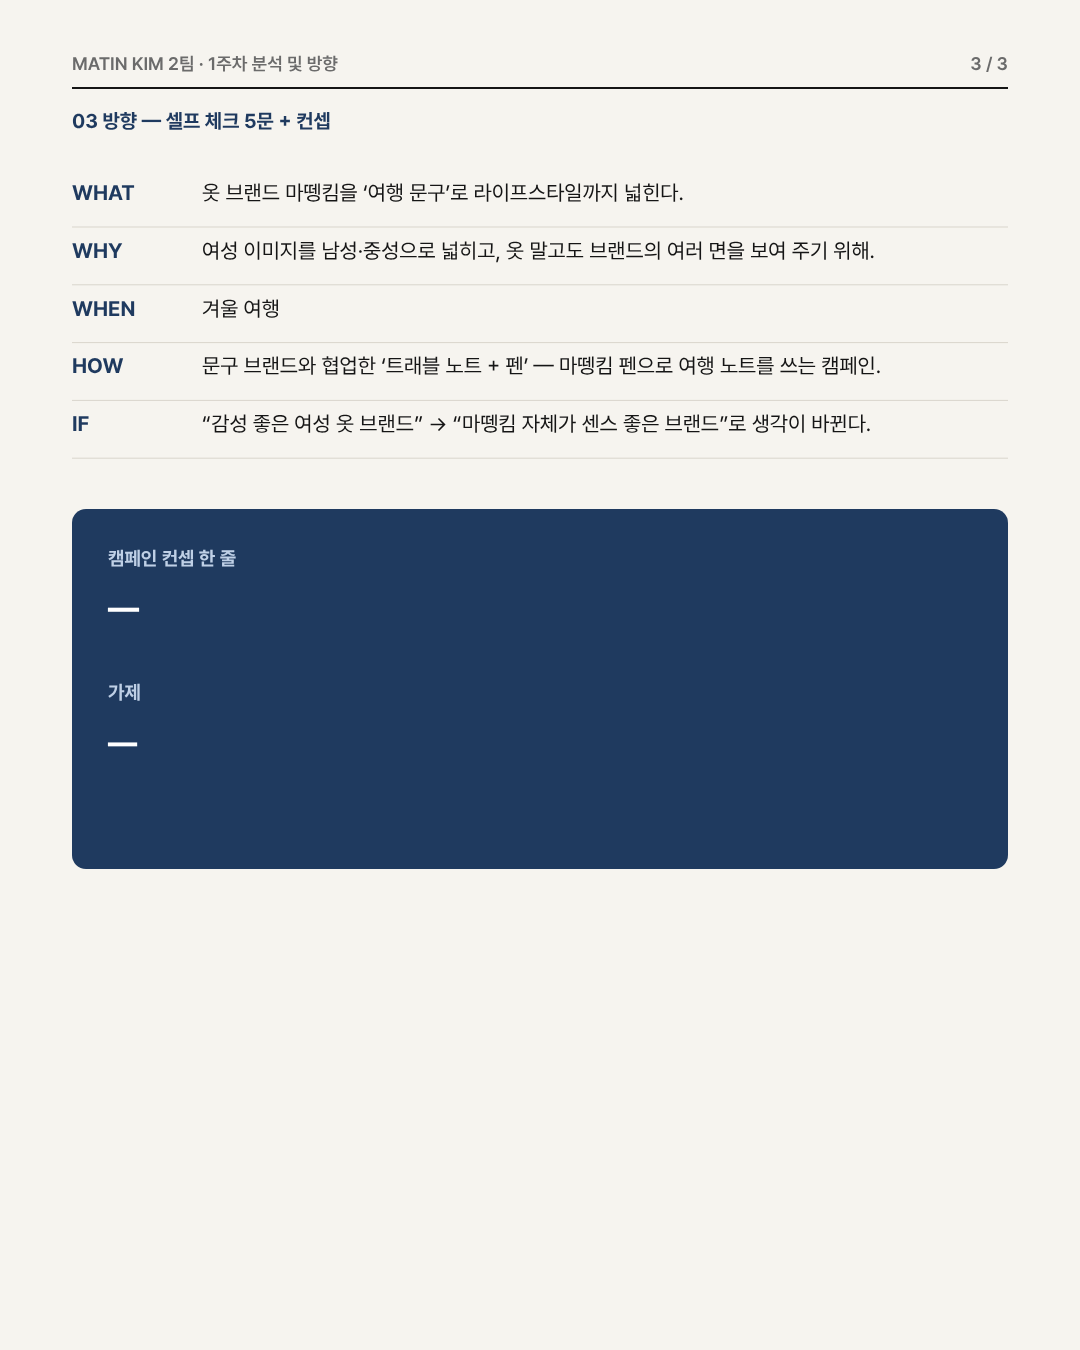
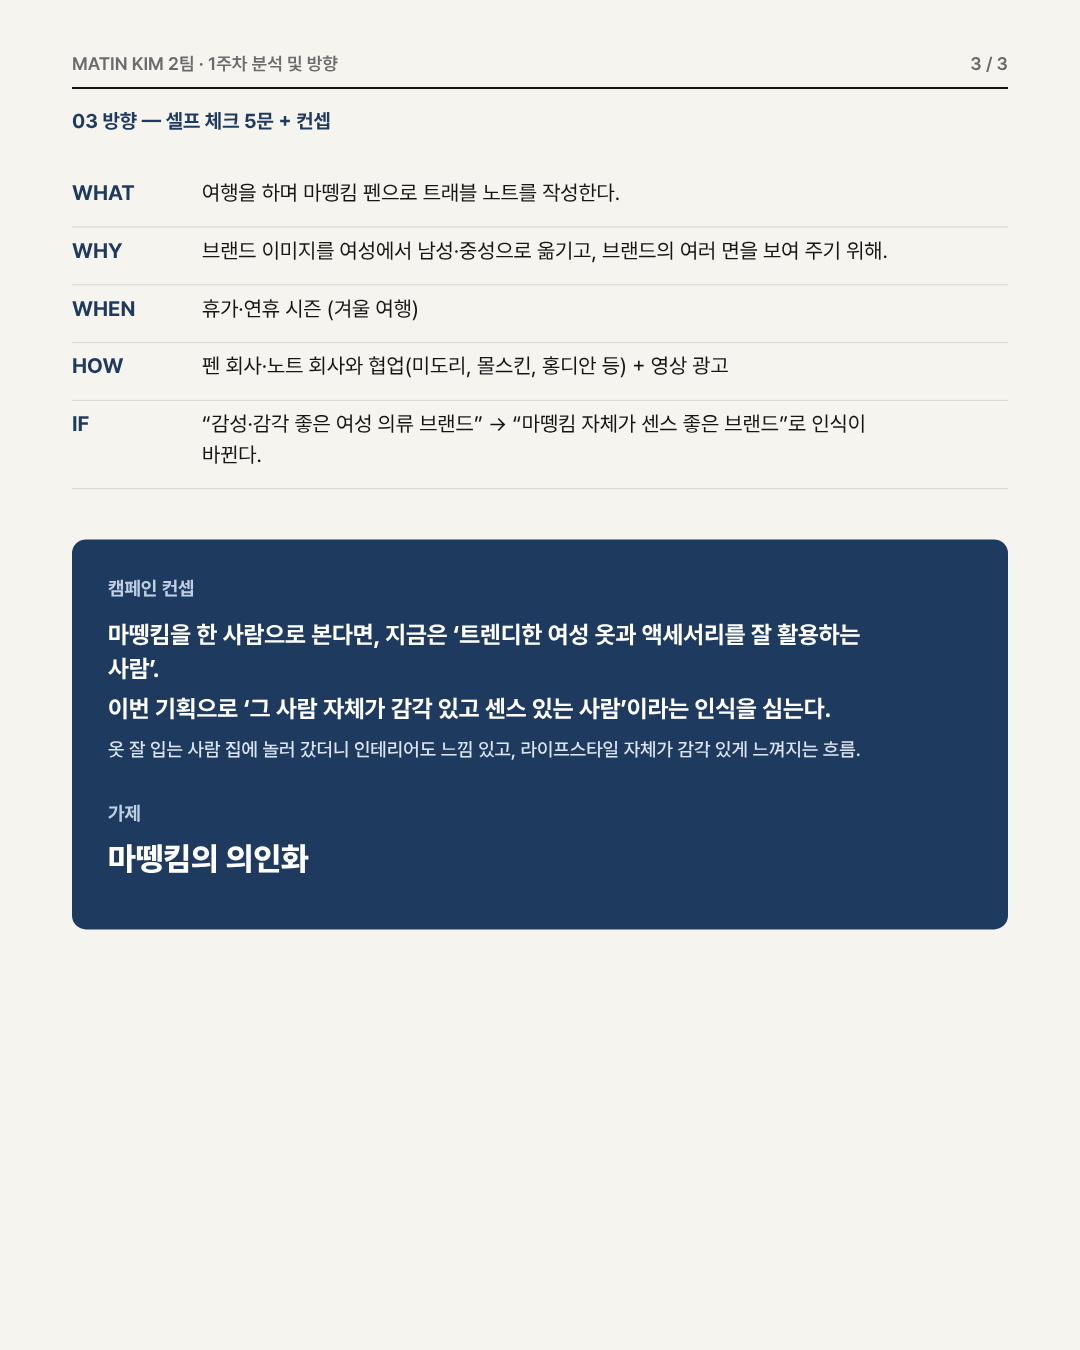
마뗑킴 1주차 3장을 새 피그마 내용(WHAT·WHEN·HOW·컨셉·가제)으로 다시 작성
Claude-Session: https://claude.ai/code/session_01VwLjVAGVevWminy8McjiU3

diff --git a/개인공부/마케팅교육/마뗑킴_1주차_제출.md b/개인공부/마케팅교육/마뗑킴_1주차_제출.md
@@ -1,7 +1,7 @@
 # 마뗑킴 2팀 · 1주차 분석 및 방향 정리 (제출용 3장)
 
 > 2026-11-07 · 피그마 "마케팅" 파일 메모 + `마뗑킴_1주차_자료.md` + `마뗑킴_뉴스_2024-2026.md`로 정리
-> 피그마에 비어 있던 칸(WHEN · 컨셉 한 줄 · 가제)은 비워 둠 → 강정준비준·팀이 직접 채우기
+> 피그마 내용(2026-11-07 다시 읽음) + 대화로 고친 내용으로 다시 작성. 크리링이 빈칸을 채우지 않음
 
 ---
 
@@ -47,27 +47,24 @@
 
 | 질문 | 한 줄 답 |
 |---|---|
-| **What** (무엇을) | 옷 브랜드 마뗑킴을 '여행 문구'로 라이프스타일까지 넓힌다. |
-| **Why** (왜) | 여성 이미지를 남성 · 중성으로 넓히고, 옷 말고도 브랜드의 여러 면을 보여 주기 위해. |
-| **When** (언제) | 겨울 여행 |
-| **How** (어떻게) | 문구 브랜드와 협업한 '트래블 노트 + 펜' — 마뗑킴 펜으로 여행 노트를 쓰는 캠페인. |
-| **If** (그러면) | "감성 좋은 여성 옷 브랜드" → "마뗑킴 자체가 센스 좋은 브랜드"로 생각이 바뀐다. |
+| **What** (무엇을) | 여행을 하며 마뗑킴 펜으로 트래블 노트를 작성한다. |
+| **Why** (왜) | 브랜드 이미지를 여성에서 남성·중성으로 옮기고, 브랜드의 여러 면을 보여 주기 위해. |
+| **When** (언제) | 휴가·연휴 시즌 (겨울 여행) |
+| **How** (어떻게) | 펜 회사·노트 회사와 협업(미도리, 몰스킨, 홍디안 등) + 영상 광고 |
+| **If** (그러면) | "감성·감각 좋은 여성 의류 브랜드" → "마뗑킴 자체가 센스 좋은 브랜드"로 인식이 바뀐다. |
 
-**캠페인 컨셉 한 줄:** (비어 있음)
+**캠페인 컨셉:** 마뗑킴을 한 사람으로 본다면, 지금은 '트렌디한 여성 옷과 액세서리를 잘 활용하는 사람'. 이번 기획으로 '그 사람 자체가 감각 있고 센스 있는 사람'이라는 인식을 심는다. 옷 잘 입는 사람 집에 놀러 갔더니 인테리어도 느낌 있고, 라이프스타일 자체가 감각 있게 느껴지는 흐름.
 
-**가제:** (비어 있음)
+**가제:** 마뗑킴의 의인화
 
 ---
 
 ## 2주차 대면 미팅 때 정할 것
 - 페르소나: 남성 30세로 가도 되는지
-- 협업할 문구 브랜드 후보 (한국 브랜드 / 해외 브랜드)
-- 컨셉 한 줄 · 가제
 
 ## 확인 필요
 - "중화권 1,615억 규모 매출계약 체결" — 피그마 메모의 기사 제목. 기사 링크를 아직 못 찾음 → 출처 확인 후 SWOT 기회에 숫자로 넣기
 - 중국 1호점(베이징 · 상하이) 실제 개점 여부 — 확인 기사 없음
-- 마뗑킴 공식 유튜브 채널 운영 여부
 
 ## 출처
 - 머니투데이, 실적 경쟁 뜨거운 '3마' (2026-06-03): https://www.mt.co.kr/living/2026/06/03/2026060114504953179
